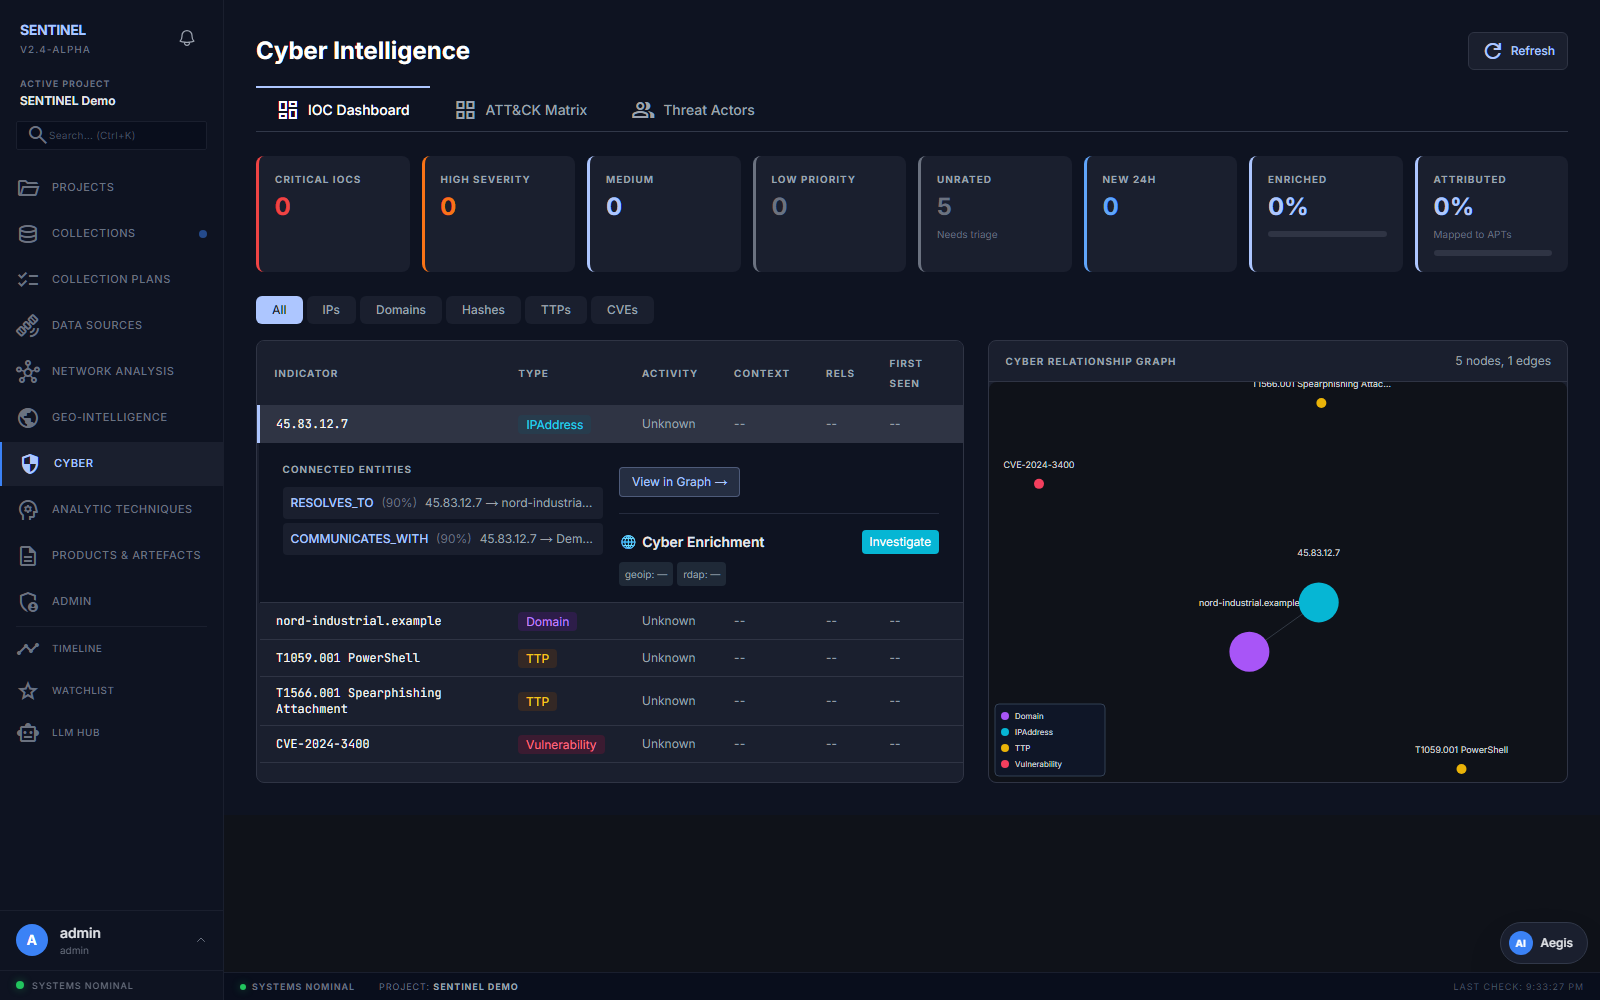
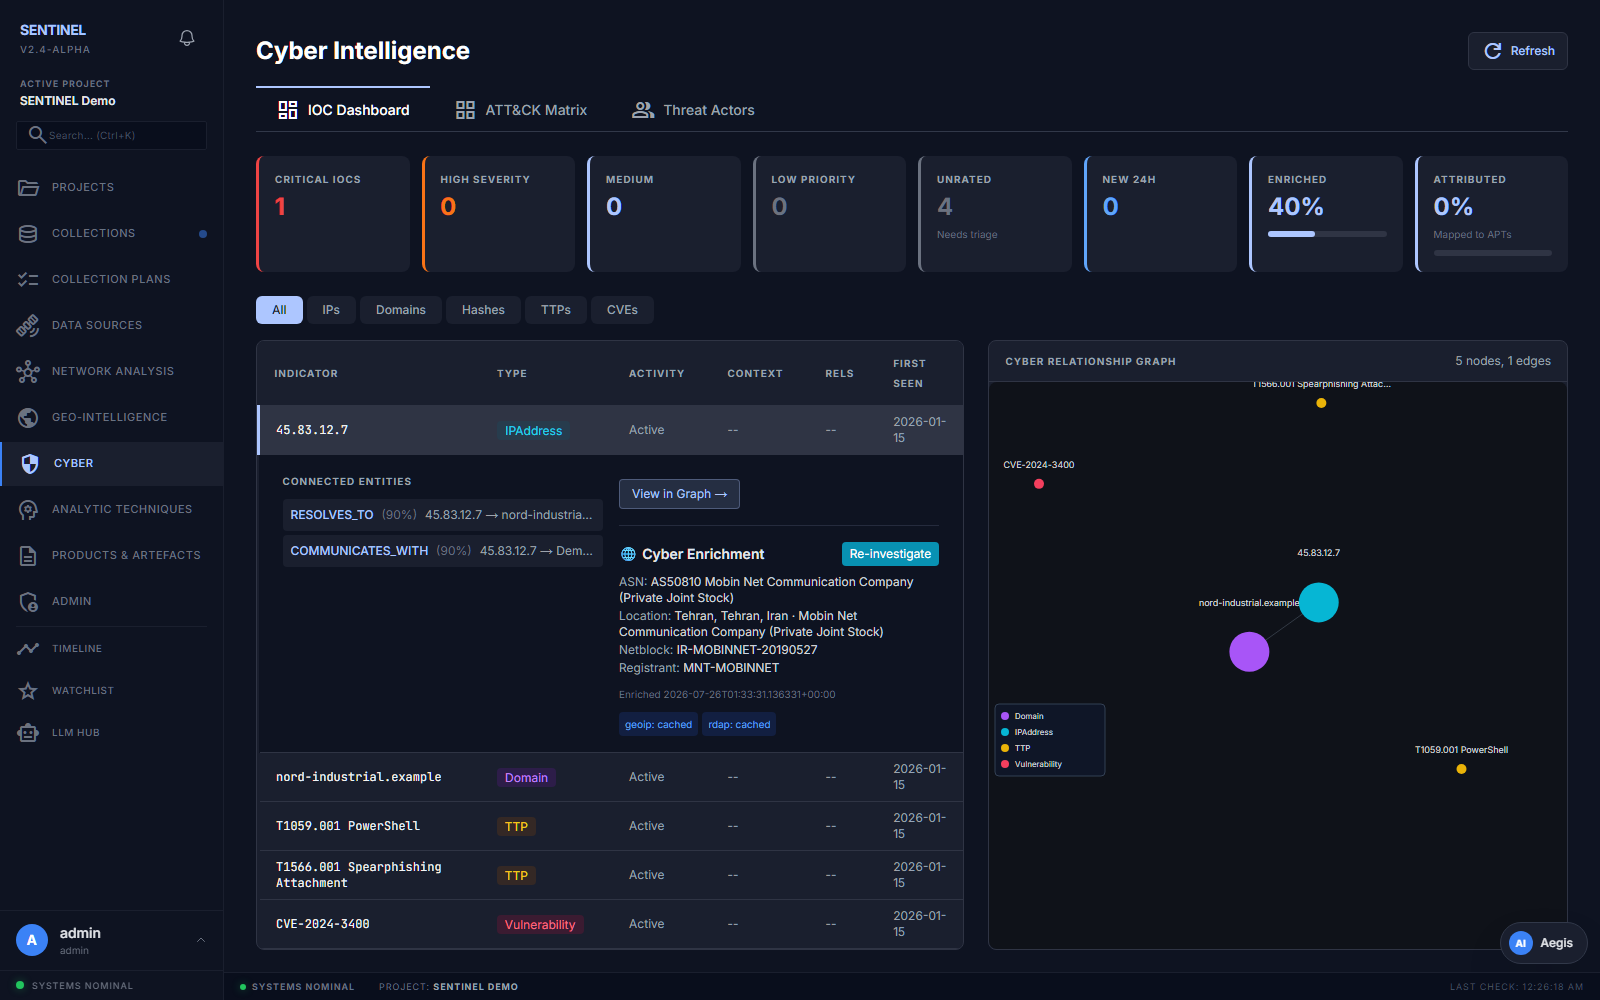
fix(cyber): read entity fields where the API actually puts them
Enrichment was never the problem. The backend writes results to the node
correctly — `enriched`, `asn`, `geolocation`, `net_name`, `registrant` were all
on the entity. The UI just looked in the wrong place.

Entity routes return node fields FLATTENED onto the object; a few others (geo)
nest them under `properties`. The cyber page and both EnrichmentPanel mounts
read `entity.properties.*`, which is undefined on the flattened shape — so
every dependent field silently rendered as empty:

  - enrichment panel showed "No enrichment yet" for enriched observables
  - Enriched stat stuck at 0%
  - severity never read, so real Critical/High IOCs counted as Unrated
  - Activity / First seen columns showed "Unknown" / "--"

Adds `entityFields()` in lib/api.ts (flattened ∪ nested, nested wins) and uses
it at those call sites. One fix, whole class of blank UI.

Also normalises the cached-enrichment payload so the provider chips read
"geoip: cached" instead of "geoip: —", and refreshes the cyber screenshot,
which now shows ASN / Tehran location / netblock / registrant, Enriched 40%
and Critical 1.

Gate: lint clean, build passes, 96 vitest, 14 smoke + 4 seeded + 5 mobile.

Claude-Session: https://claude.ai/code/session_01MZHCVhRQcsZ26f7WqeQWij

diff --git a/frontend/src/app/cyber/page.tsx b/frontend/src/app/cyber/page.tsx
@@ -6,7 +6,7 @@ import SelectProjectPrompt from '@/components/SelectProjectPrompt';
 import GraphVisualization from '@/components/GraphVisualization';
 import LoadingSpinner from '@/components/LoadingSpinner';
 import { useProject } from '@/lib/ProjectContext';
-import { entitiesApi, graphApi, assessApi } from '@/lib/api';
+import { entitiesApi, graphApi, assessApi, entityFields } from '@/lib/api';
 import { TYPE_BADGE_CLASS as TYPE_BADGE_STYLES } from '@/lib/entityStyles';
 import EnrichmentPanel from '@/components/EnrichmentPanel';
 import AttackMatrix from '@/components/AttackMatrix';
@@ -190,7 +190,10 @@ export default function CyberPage() {
   const severityStats = useMemo(() => {
     let critical = 0, high = 0, medium = 0, low = 0, unrated = 0, enriched = 0, newRecent = 0;
     iocs.forEach(i => {
-      const sev = typeof i.properties?.severity === 'string' ? i.properties.severity.toLowerCase() : '';
+      // entityFields: the API flattens node fields onto the entity, so reading
+      // `.properties` returned undefined for every one of these.
+      const f = entityFields(i);
+      const sev = typeof f.severity === 'string' ? f.severity.toLowerCase() : '';
       if (sev === 'critical') critical++;
       else if (sev === 'high') high++;
       else if (sev === 'medium') medium++;
@@ -198,15 +201,18 @@ export default function CyberPage() {
       // No severity on the entity means exactly that — counting it as Medium
       // invented a rating no analyst assigned. Surface it as triage backlog.
       else unrated++;
-      if (i.properties?.enriched) enriched++;
-      if (i.properties?.first_seen) {
-        const seen = new Date(String(i.properties.first_seen));
+      if (f.enriched) enriched++;
+      if (f.first_seen) {
+        const seen = new Date(String(f.first_seen));
         if (Date.now() - seen.getTime() < 86400000) newRecent++;
       }
     });
     const total = iocs.length || 1;
     const enrichedPct = Math.round((enriched / total) * 100);
-    const attributedCount = iocs.filter(i => i.properties?.attributed || i.properties?.threat_actor).length;
+    const attributedCount = iocs.filter(i => {
+      const f = entityFields(i);
+      return f.attributed || f.threat_actor;
+    }).length;
     const attributedPct = Math.round((attributedCount / total) * 100);
     return { critical, high, medium, low, unrated, enrichedPct, attributedPct, newRecent, attributedCount };
   }, [iocs]);
@@ -413,6 +419,9 @@ export default function CyberPage() {
                         const isExpanded = expandedId === ioc.id;
                         const rels = relationships[ioc.id] || [];
                         const entity = expandedEntity[ioc.id] || ioc;
+                        // Prefer the fuller entity fetched on expand; fall back to the
+                        // list row. Both are flattened, hence entityFields().
+                        const iocFields = entityFields(entity);
                         return (
                           <React.Fragment key={ioc.id}>
                             <tr
@@ -433,14 +442,14 @@ export default function CyberPage() {
                                 </span>
                               </td>
                               <td className="px-4 py-2 text-xs text-gray-400">
-                                {ioc.properties?.last_activity ? String(ioc.properties.last_activity) : ioc.properties?.first_seen ? 'Active' : 'Unknown'}
+                                {iocFields.last_activity ? String(iocFields.last_activity) : iocFields.first_seen ? 'Active' : 'Unknown'}
                               </td>
                               <td className="px-4 py-2 text-xs text-gray-400">
-                                {ioc.properties?.context ? String(ioc.properties.context) : ioc.properties?.threat_actor ? `Linked: ${String(ioc.properties.threat_actor)}` : '--'}
+                                {iocFields.context ? String(iocFields.context) : iocFields.threat_actor ? `Linked: ${String(iocFields.threat_actor)}` : '--'}
                               </td>
                               <td className="px-4 py-2 text-xs text-gray-400">{ioc.relationship_count ?? '--'}</td>
                               <td className="px-4 py-2 text-xs text-gray-400">
-                                {ioc.properties?.first_seen ? String(ioc.properties.first_seen) : '--'}
+                                {iocFields.first_seen ? String(iocFields.first_seen) : '--'}
                               </td>
                             </tr>
 
@@ -501,7 +510,7 @@ export default function CyberPage() {
                                       <EnrichmentPanel
                                         entityId={ioc.id}
                                         entityType={ioc.entity_type}
-                                        properties={entity.properties}
+                                        properties={entityFields(entity)}
                                         onEnriched={() => { refetchIoc(ioc.id); loadIOCs(); loadGraph(); }}
                                       />
                                     </div>

diff --git a/frontend/src/app/network/page.tsx b/frontend/src/app/network/page.tsx
@@ -7,7 +7,7 @@ import TemporalSlider from '@/components/TemporalSlider';
 import { useProject } from '@/lib/ProjectContext';
 import LoadingSpinner from '@/components/LoadingSpinner';
 import { useRouter, useSearchParams } from 'next/navigation';
-import { entitiesApi, graphApi, queryApi, llmApi, assessApi, analysisApi, watchlistApi, entityMgmtApi, documentsApi, snapshotsApi } from '@/lib/api';
+import { entitiesApi, graphApi, queryApi, llmApi, assessApi, analysisApi, watchlistApi, entityMgmtApi, documentsApi, snapshotsApi, entityFields } from '@/lib/api';
 import { useAssistant } from '@/lib/AssistantContext';
 import { TYPE_COLOR_CLASS as TYPE_COLORS } from '@/lib/entityStyles';
 import EnrichmentPanel from '@/components/EnrichmentPanel';
@@ -2041,7 +2041,7 @@ function NetworkPageInner() {
                 <EnrichmentPanel
                   entityId={selectedEntity.id}
                   entityType={selectedEntity.entity_type}
-                  properties={selectedEntity.properties}
+                  properties={entityFields(selectedEntity)}
                   onEnriched={() => selectEntity(selectedEntity)}
                 />
 

diff --git a/frontend/src/lib/api.ts b/frontend/src/lib/api.ts
@@ -817,4 +817,26 @@ export const healthApi = {
   },
 };
 
+/**
+ * Return an entity's field bag regardless of how the route shaped it.
+ *
+ * The entity routes flatten node fields onto the object (`asn`, `geolocation`,
+ * `enriched`, …) while a few others (geo) nest them under `properties`. Code
+ * that read `entity.properties.x` therefore got `undefined` for everything on
+ * the flattened shape — which is why enriched observables rendered as
+ * un-enriched and the "Enriched" stat sat at 0%.
+ *
+ * Prefer this over touching `.properties` directly.
+ */
+export function entityFields(entity: unknown): Record<string, unknown> {
+  if (!entity || typeof entity !== 'object') return {};
+  const e = entity as Record<string, unknown>;
+  const nested =
+    e.properties && typeof e.properties === 'object' && !Array.isArray(e.properties)
+      ? (e.properties as Record<string, unknown>)
+      : {};
+  // Nested wins: where a route supplies both, `properties` is the explicit one.
+  return { ...e, ...nested };
+}
+
 export default api;

diff --git a/frontend/src/components/EnrichmentPanel.tsx b/frontend/src/components/EnrichmentPanel.tsx
@@ -74,7 +74,19 @@ export default function EnrichmentPanel({ entityId, entityType, properties = {},
       try {
         const { data } = await enrichmentApi.getCached(entityId);
         const cached = data?.cached;
-        if (!cancelled && cached && Object.keys(cached).length > 0) setStatus(cached);
+        if (!cancelled && cached && Object.keys(cached).length > 0) {
+          // The cache view returns each provider's payload, not the {status}
+          // envelope the live run returns — tag them so the chips read
+          // "geoip: cached" rather than "geoip: —".
+          setStatus(
+            Object.fromEntries(
+              Object.entries(cached).map(([name, payload]: [string, any]) => [
+                name,
+                { ...(payload && typeof payload === 'object' ? payload : {}), status: payload?.status ?? 'cached' },
+              ]),
+            ),
+          );
+        }
       } catch {
         /* nothing cached for this observable yet — leave the empty state */
       }
